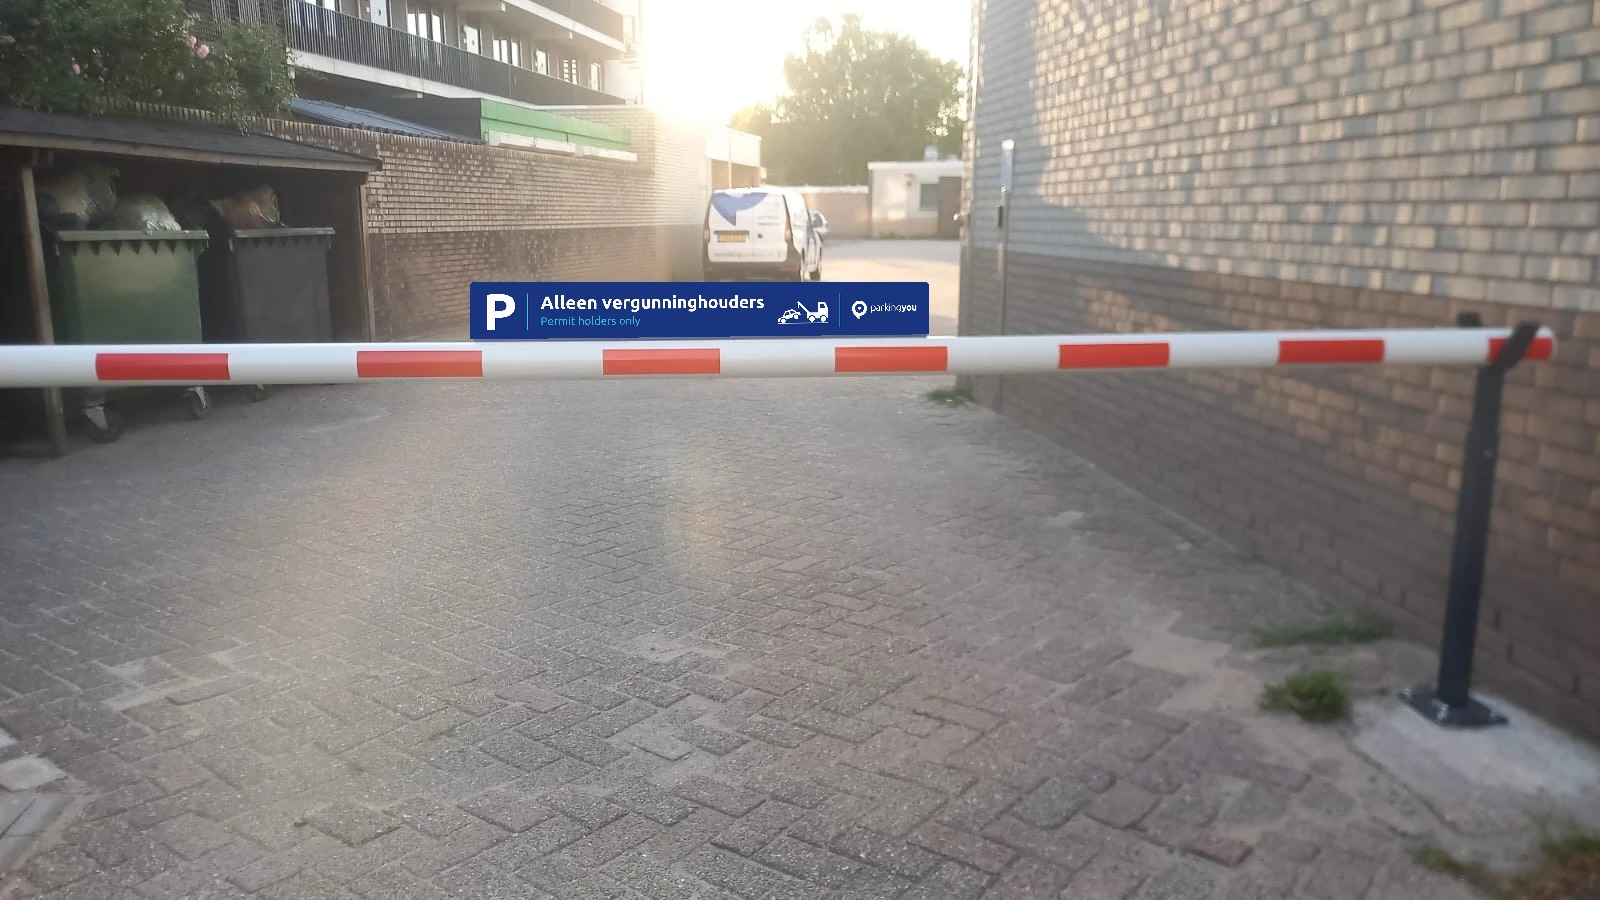
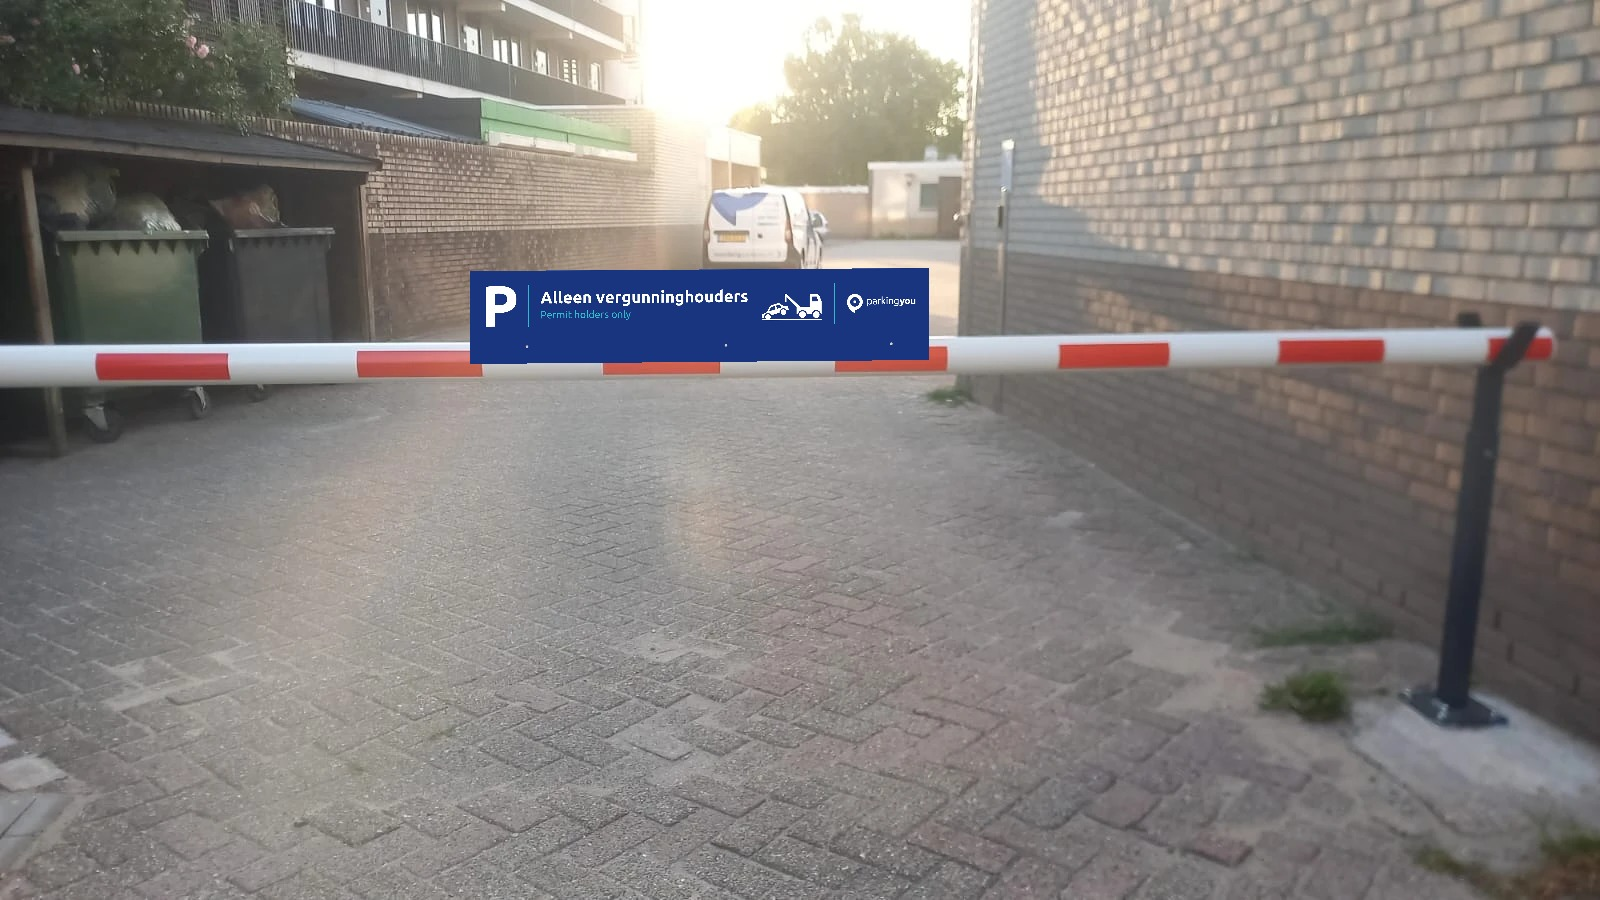
Barrier sign: 1000 x 200 mm plate, content above the screw line, navy all over
The plate hangs in front of the boom and is screwed to it in its lower part.
Estimated screw positions are a separate non-printing mounting-holes group.

Claude-Session: https://claude.ai/code/session_01A5zCZPzjor5gKpYzkviwhM

Changed region(s): [[0.2812, 0.28, 0.5938, 0.4044]]

diff --git a/designs/py-app-sign-slagboom-vergunninghouders/build.py b/designs/py-app-sign-slagboom-vergunninghouders/build.py
@@ -24,9 +24,15 @@ ID = "py-app-sign-slagboom-vergunninghouders"
 NAME = "Bord slagboom vergunninghouders"
 NAVY, AQUA, WHITE = "#1A3580", "#32B9CD", "#FFFFFF"
 
-TRIM = (1000.0, 125.0)   # ASSUMPTION: estimated from the photo of the old plate (about 8 : 1); measure before ordering
+TRIM = (1000.0, 200.0)   # ASSUMPTION: from the photo of the blank mounting plate (about 5 : 1); measure before ordering
 BLEED = 3.0
-RADIUS = 8.0             # corner radius of the plate (proposal)
+RADIUS = 0.0             # square corners, as the blank plate in the photo
+# The plate hangs in front of the boom and is screwed to it along a line in the lower part of the plate.
+# All content stays in the band above it; the band below CONTENT_H stays plain navy for the screws.
+CONTENT_H = 140.0
+BAND_Y = 146.0           # content stays above this line; below it are the screws (plate is navy all over)
+HOLES = ((123.0, 164.0), (555.0, 164.0), (917.0, 164.0))  # ASSUMPTION: screw positions estimated from the photo (x from the left, y from the top, mm)
+HOLE_D = 6.0             # proposal; match the screws
 MARGIN = 30.0            # left and right inner margin
 
 COPY = {
@@ -71,23 +77,25 @@ def build():
     d.uses("py-tok-color-blauw", "py-tok-color-aqua", "py-tok-color-wit", "py-tok-type-ubuntu-bold", "py-tok-type-ubuntu-regular")
     d.rect(-BLEED, -BLEED, W + BLEED, H + BLEED, fill=NAVY, gid="bleed-background", variable="background-colour", example=NAVY)
 
-    cy = H / 2
+    # no content below BAND_Y: that part of the plate (same navy) is screwed to the boom
+    Z = BAND_Y
+    cy = Z / 2 + 3
     # 1. plain P, white (no roof: the roof marks a garage, this is an open air terrain)
     with d.group("py-atom-symbol-p-plain"):
-        p_box = d.place("py-atom-symbol-p-plain", MARGIN + 4, cy, h=H * 0.60, anchor="cl")
+        p_box = d.place("py-atom-symbol-p-plain", MARGIN + 4, cy, h=Z * 0.60, anchor="cl")
     # aqua divider
     div1 = p_box[2] + 26
-    d.line(div1, H * 0.20, div1, H * 0.80, stroke=AQUA, sw=2.0, cap="round", gid="divider-left")
+    d.line(div1, Z * 0.20 + 3, div1, Z * 0.80 + 3, stroke=AQUA, sw=2.0, cap="round", gid="divider-left")
 
     # 4. logo, right aligned
     logo_w = 150.0
     with d.group("py-atom-logo-horizontal-white"):
         logo_box = d.place("py-atom-logo-horizontal-white", W - MARGIN, cy, w=logo_w, anchor="cr")
     div2 = logo_box[0] - 28
-    d.line(div2, H * 0.20, div2, H * 0.80, stroke=AQUA, sw=2.0, cap="round", gid="divider-right")
+    d.line(div2, Z * 0.20 + 3, div2, Z * 0.80 + 3, stroke=AQUA, sw=2.0, cap="round", gid="divider-right")
 
     # 3. tow away pictogram, left of the right divider
-    tow_h = H * 0.50
+    tow_h = Z * 0.50
     tow_w = tow_h * 100 / 56
     tow_x = div2 - 28 - tow_w
     tow_pictogram(d, tow_x, cy - tow_h / 2 - 1.5, tow_h)
@@ -105,6 +113,9 @@ def build():
         d.text(tx, base_nl + shift, COPY["line-nl"], size=size_nl, fill=WHITE, weight=700, variable="line-nl", gid="line-nl")
         d.text(tx, base_en + shift, COPY["line-en"], size=size_en, fill=AQUA, weight=400, variable="line-en", gid="line-en")
 
+    with d.group("mounting-holes", data_purpose="screw positions to the boom, estimated; not printed"):
+        for hx, hy in HOLES:
+            d.circle(hx, hy, HOLE_D / 2, fill=None, stroke="#ED308A", sw=0.353)
     d.cut_contour(0, 0, W, H, rx=RADIUS)
     d.guides(W, H)
     return d, dict(size_nl=size_nl, size_en=size_en, text_x=tx, avail=avail)
@@ -122,7 +133,12 @@ def main():
     prev = svg.replace('data-spot="ThruCut"', 'data-spot="ThruCut" visibility="hidden"')
     prev = prev.replace(f'<rect x="0" y="0" width="{fmt(W + 2 * BLEED)}" height="{fmt(H + 2 * BLEED)}" fill="{NAVY}"',
                         f'<rect x="{fmt(BLEED)}" y="{fmt(BLEED)}" width="{fmt(W)}" height="{fmt(H)}" rx="{fmt(RADIUS)}" fill="{NAVY}"')
-    cairosvg.svg2png(bytestring=prev.encode(), write_to=os.path.join(HERE, "preview.png"), output_width=2400, background_color="white")
+    prev = prev.replace('fill="none" stroke="#ED308A"', 'fill="#C9CCD1" stroke="#8A8F98"')
+    png = os.path.join(HERE, "preview.png")
+    cairosvg.svg2png(bytestring=prev.encode(), write_to=png, output_width=2400, background_color="white")
+    from PIL import Image  # crop the bleed so the preview shows the trimmed plate only
+    im = Image.open(png); k = im.size[0] / (W + 2 * BLEED); b = round(BLEED * k)
+    im.crop((b, b, im.size[0] - b, im.size[1] - b)).save(png)
     cairosvg.svg2pdf(bytestring=svg.encode(), write_to=os.path.join(HERE, "proof.pdf"))
 
     spec = {
@@ -133,15 +149,17 @@ def main():
         "replaces": "generic plate 'P Private parking / Parking only for permit holders' with tow away pictogram, on the manual barrier",
         "template": {"trim_mm": list(TRIM), "bleed_mm": BLEED, "size_with_bleed_mm": [TRIM[0] + 2 * BLEED, TRIM[1] + 2 * BLEED],
                      "colour": "RGB hex from tokens.json (official tokens); print values (CMYK) are in tokens.json",
-                     "cut_contour": {"spot": "ThruCut", "stroke_pt": 1, "inset_mm": 0.2, "corner_radius_mm": RADIUS, "note": "proposal"}},
+                     "cut_contour": {"spot": "ThruCut", "stroke_pt": 1, "inset_mm": 0.2, "corner_radius_mm": RADIUS, "note": "square corners as the blank plate"}},
         "variables": {"default": {"background-colour": NAVY, **COPY}},
         "built_from": d.built_from + ["py-atom-picto-tow-away (new, drawn in build.py)"],
         "status": "new",
         "layout_mm": {k: round(v, 2) for k, v in info.items()},
         "notes": ("New barrier plate in the ParkingYou house style: navy PY-Blauw field, white plain P (no roof, not a garage), aqua dividers, Dutch line in Ubuntu Bold white, "
-                  "English line in Ubuntu Regular PY-Aqua, white tow away pictogram, white horizontal logo. ASSUMPTION: trim 1000 x 125 mm is estimated "
-                  "from the photo (the old plate is about 8 : 1 next to the boom); measure the old plate and the mounting holes before ordering, then change "
-                  "TRIM in build.py and rebuild. Mounting holes are not marked (position depends on the bracket). Material proposal: 3 mm aluminium dibond, "
+                  "English line in Ubuntu Regular PY-Aqua, white tow away pictogram, white horizontal logo. ASSUMPTION: trim 1000 x 200 mm is estimated "
+                  "from the photo of the blank mounting plate (about 5 : 1). The plate hangs in front of the boom and is screwed to it in the lower part: all content "
+                  "stays above y 146 mm, the navy part below holds the three screws (whole plate is PY-Blauw) (group mounting-holes, magenta rings, not printed; positions "
+                  "x 123, 555 and 917 mm at y 164 mm are estimated from the photo). Measure plate and screw positions before ordering, then change TRIM and HOLES "
+                  "in build.py and rebuild. Material proposal: 3 mm aluminium dibond, "
                   "printed and laminated, double sided if the plate is seen from both approaches."),
     }
     json.dump(spec, open(os.path.join(HERE, "spec.json"), "w", encoding="utf8"), indent=1, ensure_ascii=False)

diff --git a/designs/py-app-sign-slagboom-vergunninghouders/README.md b/designs/py-app-sign-slagboom-vergunninghouders/README.md
@@ -4,7 +4,7 @@ Vervangt het generieke bord "P Private parking / Parking only for permit holders
 
 | Bestand | Wat |
 |---|---|
-| `template.svg` | Drukbestand: 1000 x 125 mm plus 3 mm afloop, live Ubuntu-tekst, snijcontour (ThruCut, hoekradius 8 mm) |
+| `template.svg` | Drukbestand: 1000 x 200 mm plus 3 mm afloop, live Ubuntu-tekst, snijcontour (ThruCut, rechte hoeken), schroefposities als aparte laag `mounting-holes` (niet drukken) |
 | `proof.pdf` | Zelfde ontwerp als PDF-proef |
 | `preview.png` | Voorbeeld zoals het bord eruit komt te zien |
 | `mockup.jpg` | Het nieuwe bord op de foto van de slagboom |
@@ -13,8 +13,8 @@ Vervangt het generieke bord "P Private parking / Parking only for permit holders
 
 Opbouw: PY-Blauw vlak, witte platte P (zonder dak, het is geen garage), aqua scheidingslijnen, "Alleen vergunninghouders" in Ubuntu Bold wit,
 "Permit holders only" in Ubuntu Regular PY-Aqua, wit wegsleep-pictogram (nieuw getekend), wit liggend logo.
+Het hele bord is PY-Blauw. Onderin (vanaf 146 mm) zit het bord met drie schroeven op de boom vast, dus daar staat geen tekst.
 
 Open punten voor bestellen:
-* Het formaat 1000 x 125 mm is geschat op de foto (verhouding ca. 8 : 1). Meet het oude bord en pas `TRIM` in `build.py` aan.
-* Montagegaten staan er niet in (hangt af van de beugel).
+* Het formaat 1000 x 200 mm en de schroefposities (x 123, 555 en 917 mm, 164 mm vanaf boven) zijn geschat op de foto van de lege montageplaat. Meet ze op en pas `TRIM` en `HOLES` in `build.py` aan.
 * Enkel- of dubbelzijdig, en materiaal (voorstel: 3 mm aluminium dibond, bedrukt en gelamineerd).
